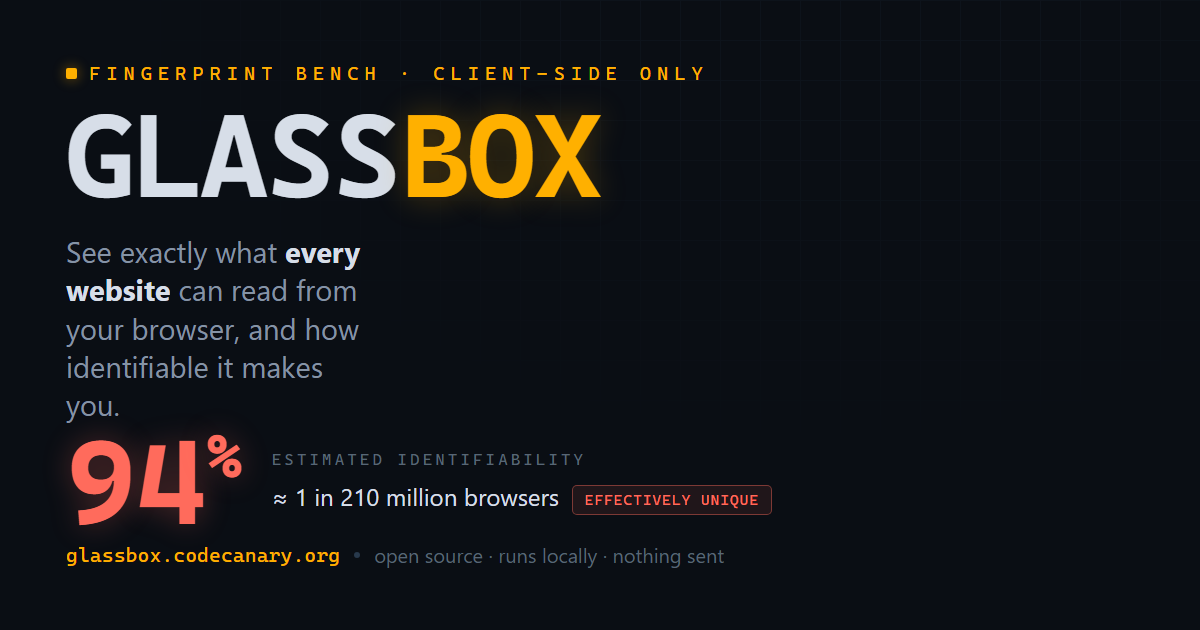
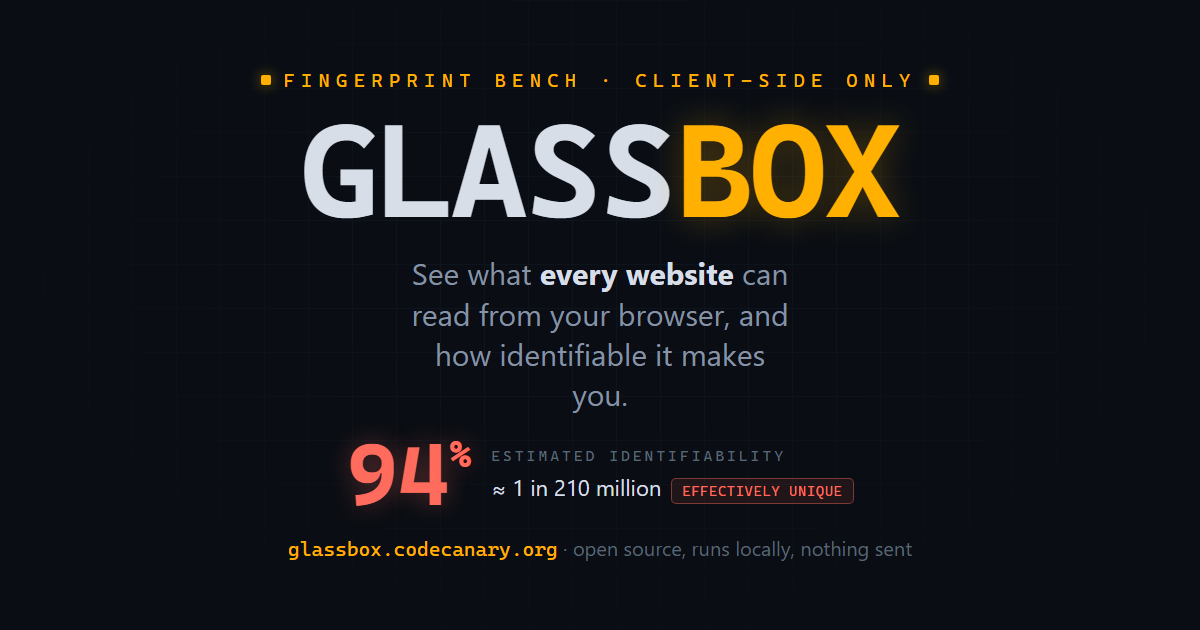
Make GlassBox indexable, cross-link with CodeCanary, recenter share card
- Drop noindex; add robots.txt + sitemap.xml so search engines list it
- Footer link back to codecanary.org (the companion scanner)
- Recenter the OG share image so it survives Reddit's square-crop thumbnail

diff --git a/index.html b/index.html
@@ -4,7 +4,7 @@
 <meta charset="UTF-8">
 <meta name="viewport" content="width=device-width, initial-scale=1.0">
 <meta name="referrer" content="no-referrer">
-<meta name="robots" content="noindex">
+<meta name="robots" content="index, follow">
 <title>GLASSBOX — browser fingerprint bench</title>
 <!-- social share cards (Open Graph + Twitter) -->
 <meta property="og:type" content="website">
@@ -374,6 +374,7 @@
     <p><b>What this is.</b> A diagnostic mirror. Each panel runs one family of fingerprinting or device-enumeration technique and reports the raw values plus a rough <span style="color:var(--coral)">identifying power</span> rating. Individually, most signals are weak; combined, they routinely single out one browser in millions. That combination is the whole game.</p>
     <p><b>The identifiability % is a model, not a measurement.</b> Signal ratings (High / Medium / Low) reflect research consensus — canvas, WebGL, audio, font lists and the API matrix are consistently strongest. The headline % sums published per-signal entropy, counts only what your browser actually exposes (masked canvas/GPU are discounted), applies a correlation haircut, and caps at the ~33 bits needed to single out one person among ~8 billion. True rarity needs a live population dataset to compare against — the one thing a no-server tool can't compute on its own — so treat this as an order-of-magnitude indicator. One honest wrinkle: a browser that blends into a big crowd (Tor Browser at its default window size, say) is <em>safer</em> than its bit-count here suggests, because everyone in that crowd reports the same values and this model can't see that. For live-population numbers, compare with <a href="https://coveryourtracks.eff.org" rel="noopener noreferrer">EFF Cover Your Tracks</a> and <a href="https://amiunique.org" rel="noopener noreferrer">amiunique.org</a>.</p>
     <p><b>Sandbox caveat.</b> If you are viewing this inside an embedded frame, some probes (WebRTC, media devices, permissions, sensors) may be blocked by the frame's permissions policy and will report <em>blocked</em> rather than a real value. Host the file at its own origin for the full surface. Shortcuts: <kbd>E</kbd> expand · <kbd>R</kbd> re-run.</p>
+    <p><b>From CodeCanary.</b> GlassBox is a companion to <a href="https://codecanary.org" rel="noopener">codecanary.org</a>, a passive scanner that grades a site's security headers, verifies its JavaScript hasn't drifted, and checks MCP servers. Source on <a href="https://github.com/HotStartLabs/glassbox" rel="noopener">GitHub</a>.</p>
   </footer>
 </main>
 

diff --git a/guide.html b/guide.html
@@ -4,7 +4,7 @@
 <meta charset="UTF-8">
 <meta name="viewport" content="width=device-width, initial-scale=1.0">
 <meta name="referrer" content="no-referrer">
-<meta name="robots" content="noindex">
+<meta name="robots" content="index, follow">
 <title>GLASSBOX — lower your fingerprint</title>
 <!-- social share cards (Open Graph + Twitter) -->
 <meta property="og:type" content="article">
